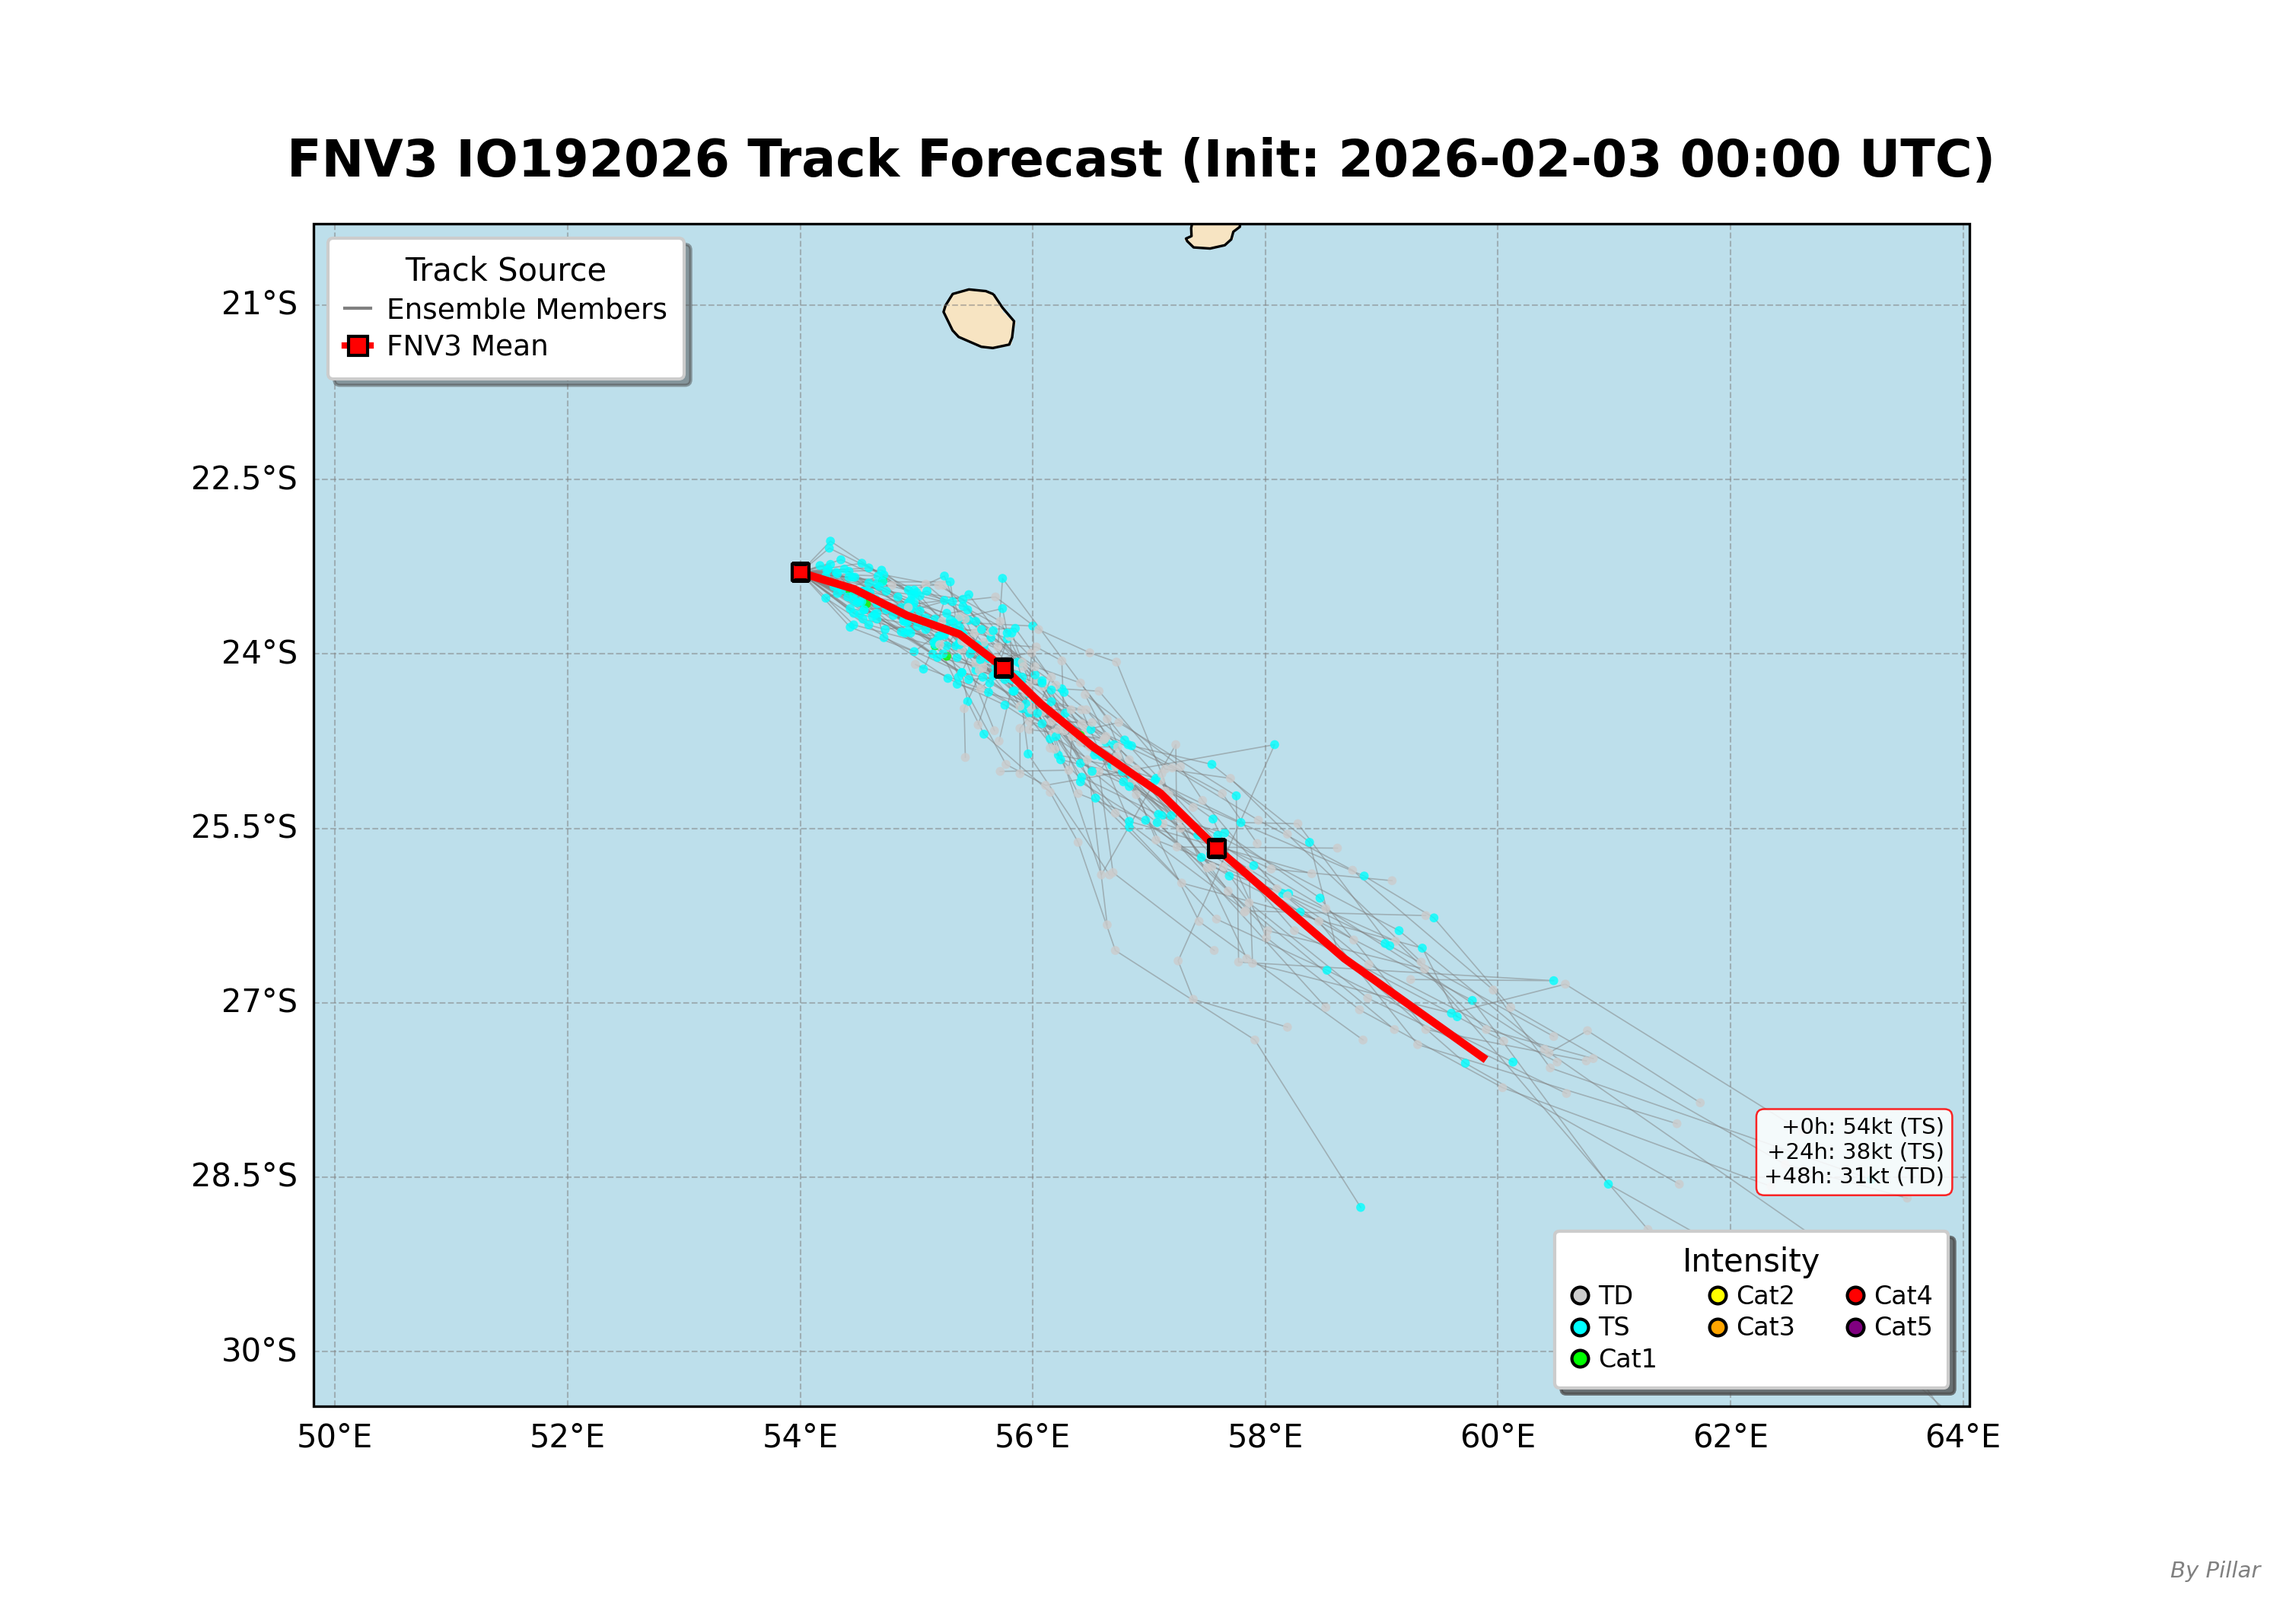
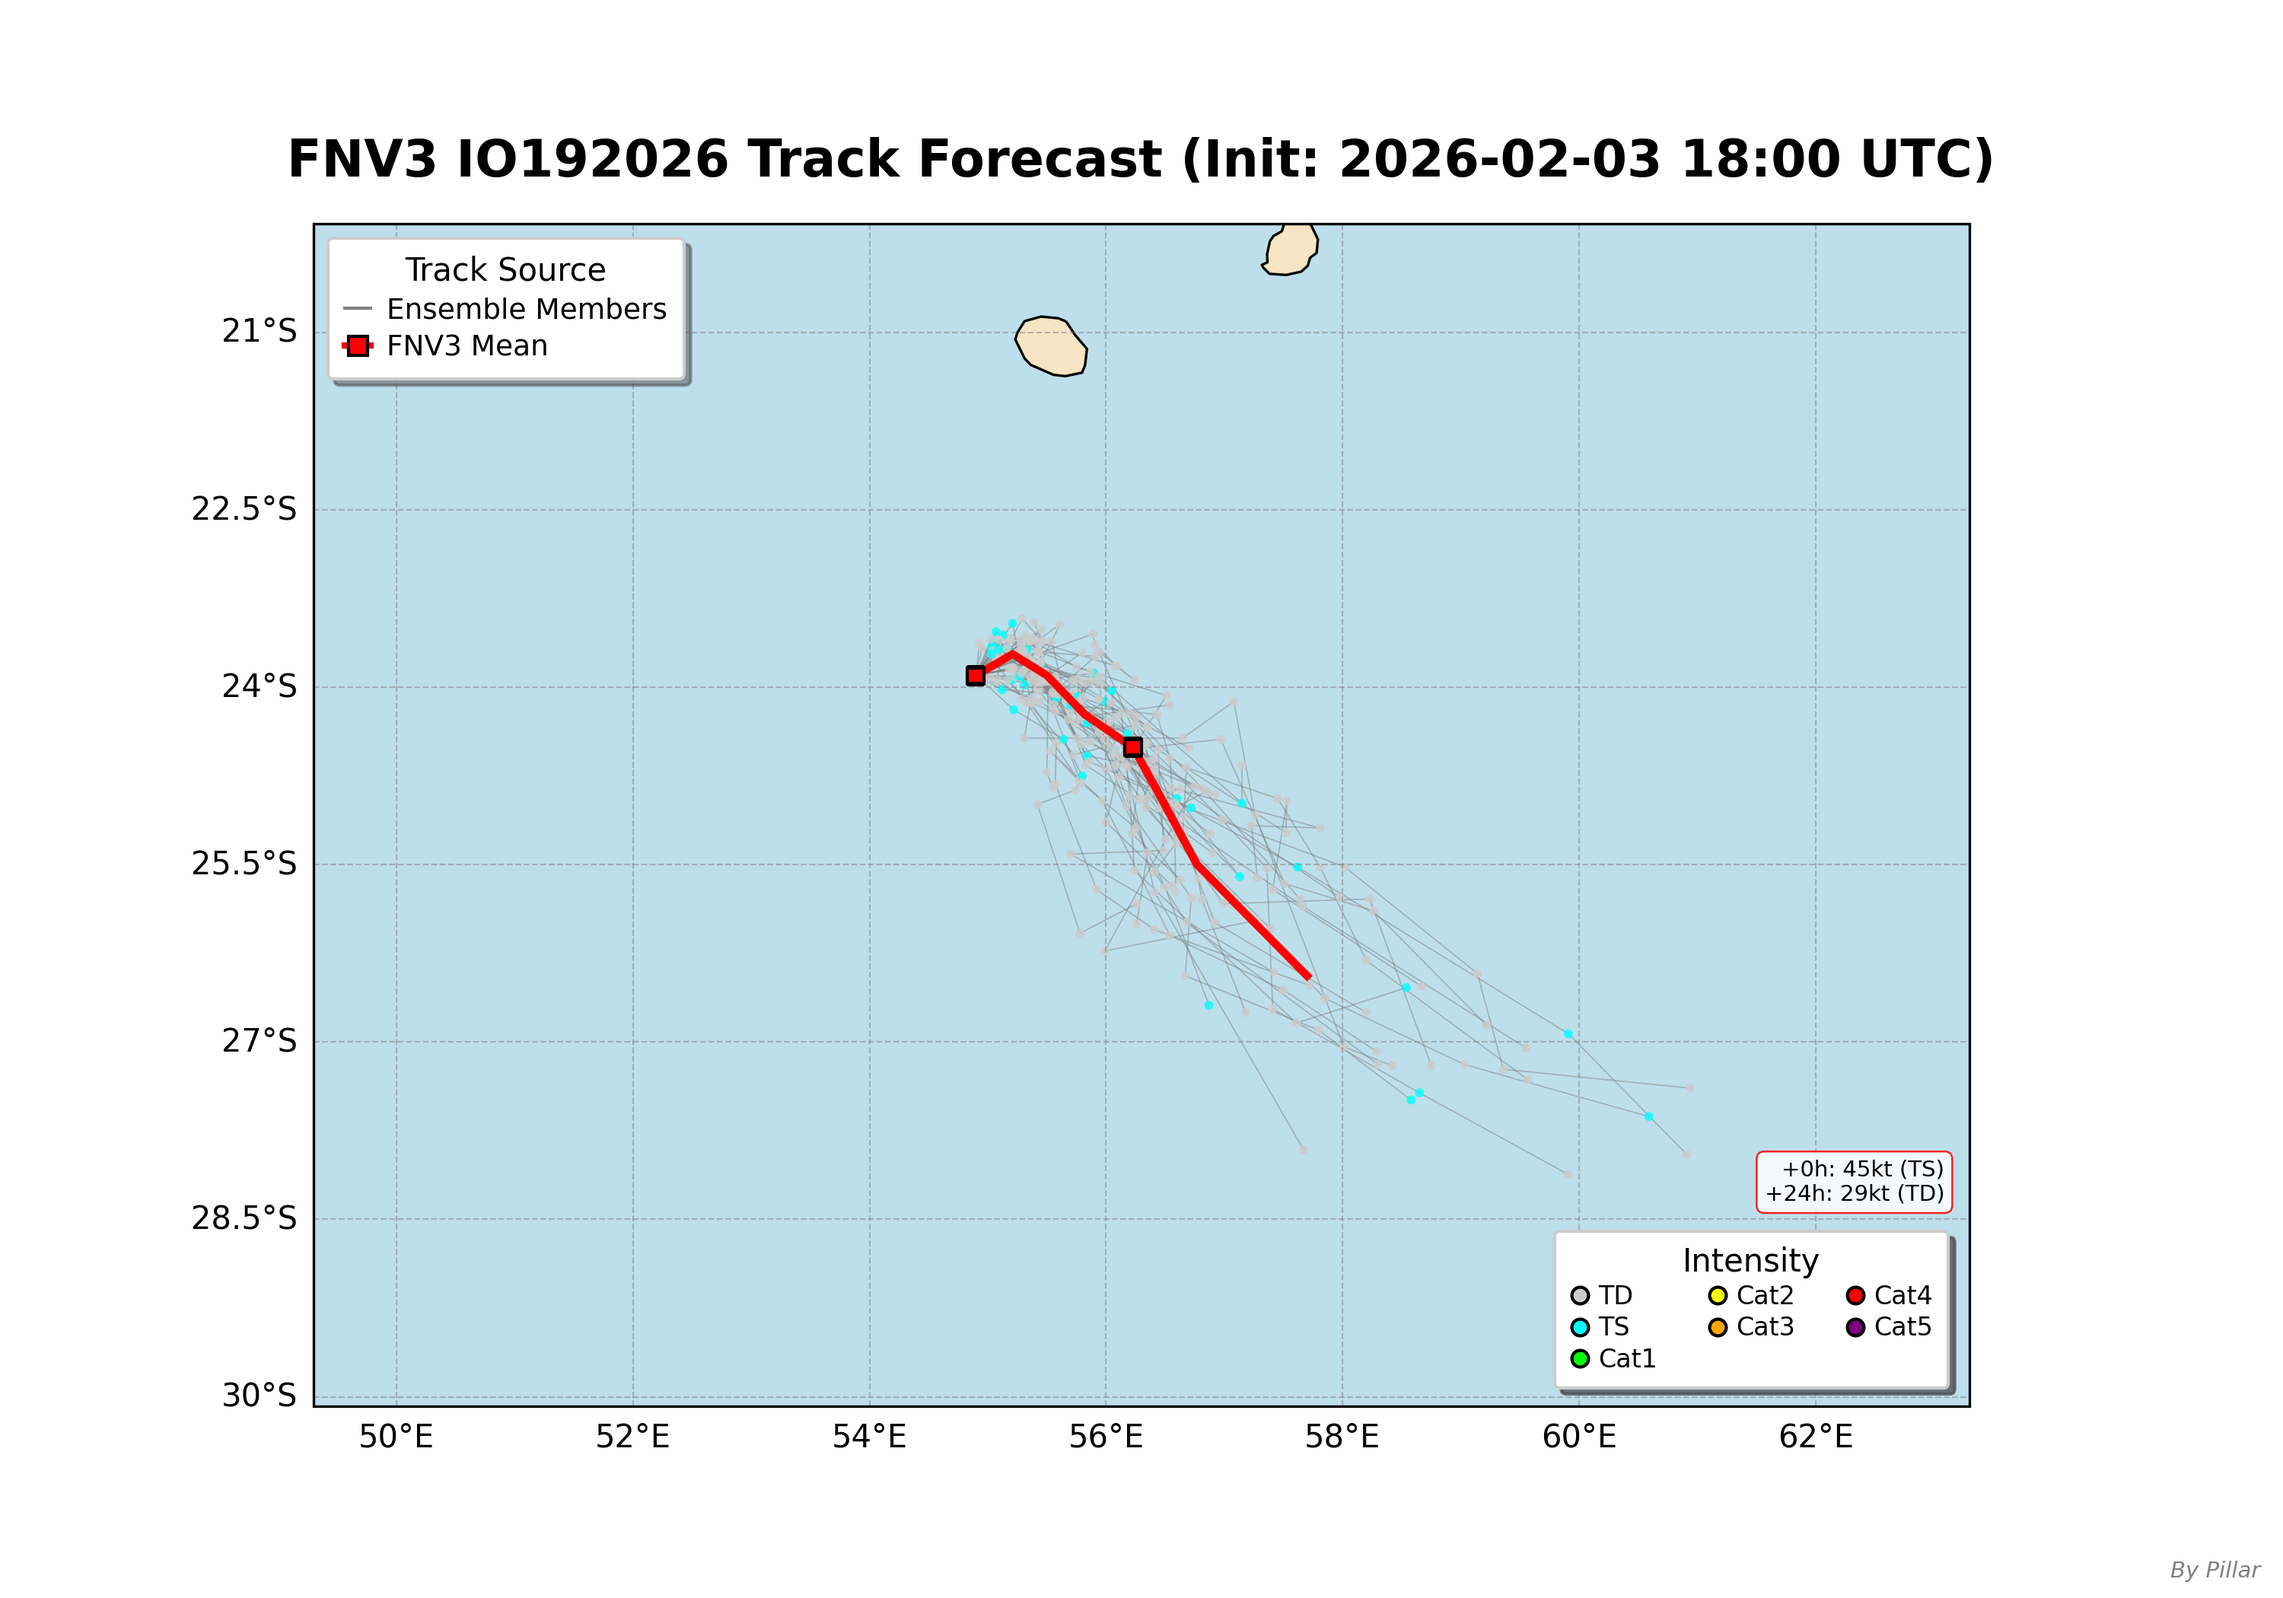
Add files via upload

diff --git a/index.html b/index.html
@@ -3,7 +3,7 @@
 <head>
     <meta charset="UTF-8">
     <meta name="viewport" content="width=device-width, initial-scale=1.0">
-    <title>Pillar's Tropical Cyclone Forecast | IO192026</title>
+    <title>Pillar's Tropical Cyclone Forecast | IO192026 / WP942026</title>
     <style>
         * {
             margin: 0;
@@ -689,7 +689,7 @@
                     <div class="subtitle">Real-time FNV3 Ensemble Forecast System</div>
                 </div>
                 <div class="update-badge">
-                    ⏰ Updated: 2026-02-03 17:58:45
+                    ⏰ Updated: 2026-02-04 10:29:30
                 </div>
             </div>
         </header>
@@ -708,15 +708,15 @@
                 <div class="info-grid">
                     <div class="info-item">
                         <div class="info-label">🛰 Current Time</div>
-                        <div class="info-value">030000 Z</div>
+                        <div class="info-value">031200 Z</div>
                     </div>
                     <div class="info-item">
                         <div class="info-label">📍 Current Position</div>
-                        <div class="info-value">23.5°S, 54.2°E</div>
+                        <div class="info-value">24.0°S, 54.7°E</div>
                     </div>
                     <div class="info-item">
                         <div class="info-label">💨 Maximum Wind</div>
-                        <div class="info-value">55 kt</div>
+                        <div class="info-value">50 kt</div>
                     </div>
                     <div class="info-item">
                         <div class="info-label">🔥 Intensity (Saffir-Simpson)</div>
@@ -727,11 +727,11 @@
                     </div>
                     <div class="info-item mobile-wind-radii" style="grid-column: span 2;">
                         <div class="info-label">🌀 34 kt Wind Radii</div>
-                        <div class="info-value">NE: 080 / SE: 100 / SW: 075 / NW: 070 nm</div>
+                        <div class="info-value">NE: 100 / SE: 110 / SW: 065 / NW: 000 nm</div>
                     </div>
                     <div class="info-item mobile-wind-radii" style="grid-column: span 2;">
                         <div class="info-label">🌀 50 kt Wind Radii</div>
-                        <div class="info-value">NE: 040 / SE: 045 / SW: 040 / NW: 040 nm</div>
+                        <div class="info-value">NE: 050 / SE: 045 / SW: 035 / NW: 000 nm</div>
                     </div>
                 </div>
 
@@ -786,9 +786,9 @@
                         <button class="control-btn" onclick="pauseAnimation('IO192026')">⏸ Pause</button>
                         <button class="control-btn" onclick="resetAnimation('IO192026')">⟲ Reset</button>
                         <div class="progress-bar-container">
-                            <input type="range" id="progress-IO192026" class="progress-slider" min="0" max="12" value="0" 
+                            <input type="range" id="progress-IO192026" class="progress-slider" min="0" max="9" value="0" 
                                    oninput="seekFrame('IO192026', this.value)">
-                            <span id="frame-counter-IO192026" class="frame-counter">1/13</span>
+                            <span id="frame-counter-IO192026" class="frame-counter">1/10</span>
                         </div>
                     </div>
                 </div>
@@ -812,6 +812,123 @@
             <div class="map-container jtwc-forecast-map" style="margin-top: 30px;">
                 <div class="map-title">🌐 JTWC Official Forecast</div>
                 <img src="jtwc_IO192026.gif" alt="JTWC Forecast" class="map-image" onerror="this.parentElement.style.display='none'">
+                <div class="map-description" style="margin-top: 15px; color: #666; font-size: 0.95em; line-height: 1.6;">
+                    <strong>Source:</strong> Joint Typhoon Warning Center (JTWC) - U.S. Navy & Air Force
+                </div>
+            </div>
+        
+
+            <div class="storm-card">
+                <div class="storm-header">
+                    <div class="storm-title">
+                        TWO <span class="alert-badge">LIVE</span>
+                    </div>
+                    <div class="storm-id">WP942026</div>
+                </div>
+
+                <div class="info-grid">
+                    <div class="info-item">
+                        <div class="info-label">🛰 Current Time</div>
+                        <div class="info-value">040000 Z</div>
+                    </div>
+                    <div class="info-item">
+                        <div class="info-label">📍 Current Position</div>
+                        <div class="info-value">8.7°N, 132.7°E</div>
+                    </div>
+                    <div class="info-item">
+                        <div class="info-label">💨 Maximum Wind</div>
+                        <div class="info-value">30 kt</div>
+                    </div>
+                    <div class="info-item">
+                        <div class="info-label">🔥 Intensity (Saffir-Simpson)</div>
+                        <div class="info-value intensity-value">
+                            <span class="intensity-dot" style="background: #CCCCCC;"></span>
+                            <span class="legend-label">TD</span>
+                        </div>
+                    </div>
+                    <div class="info-item mobile-wind-radii" style="grid-column: span 2;">
+                        <div class="info-label">🌀 34 kt Wind Radii</div>
+                        <div class="info-value">NE: 100 / SE: 040 / SW: 000 / NW: 100 nm</div>
+                    </div>
+                </div>
+
+                <!-- Legend -->
+                <div class="legend">
+                    <div class="legend-title">🎨 Intensity Scale (Saffir-Simpson)</div>
+                    <div class="legend-items">
+                        <div class="legend-item">
+                            <div class="legend-color" style="background: #CCCCCC;"></div>
+                            <div class="legend-label">TD (< 34 kt)</div>
+                        </div>
+                        <div class="legend-item">
+                            <div class="legend-color" style="background: #00FFFF;"></div>
+                            <div class="legend-label">TS (34-63 kt)</div>
+                        </div>
+                        <div class="legend-item">
+                            <div class="legend-color" style="background: #00FF00;"></div>
+                            <div class="legend-label">Cat 1 (64-82 kt)</div>
+                        </div>
+                        <div class="legend-item">
+                            <div class="legend-color" style="background: #FFFF00;"></div>
+                            <div class="legend-label">Cat 2 (83-95 kt)</div>
+                        </div>
+                        <div class="legend-item">
+                            <div class="legend-color" style="background: #FFA500;"></div>
+                            <div class="legend-label">Cat 3 (96-112 kt)</div>
+                        </div>
+                        <div class="legend-item">
+                            <div class="legend-color" style="background: #FF0000;"></div>
+                            <div class="legend-label">Cat 4 (113-136 kt)</div>
+                        </div>
+                        <div class="legend-item">
+                            <div class="legend-color" style="background: #800080;"></div>
+                            <div class="legend-label">Cat 5 (≥ 137 kt)</div>
+                        </div>
+                    </div>
+                </div>
+            </div>
+
+            
+            <!-- Animation Player -->
+            <div class="animation-container">
+                <div class="animation-title">🎬 Track Evolution Animation</div>
+                <div class="animation-player">
+                    <img id="animation-frame-WP942026" 
+                         src="animation_frames_WP942026/frame_0000.png" 
+                         alt="Animation" 
+                         class="animation-frame"
+                         data-frames-dir="animation_frames_WP942026">
+                    <div class="player-controls">
+                        <button class="control-btn" onclick="playAnimation('WP942026')">▶ Play</button>
+                        <button class="control-btn" onclick="pauseAnimation('WP942026')">⏸ Pause</button>
+                        <button class="control-btn" onclick="resetAnimation('WP942026')">⟲ Reset</button>
+                        <div class="progress-bar-container">
+                            <input type="range" id="progress-WP942026" class="progress-slider" min="0" max="18" value="0" 
+                                   oninput="seekFrame('WP942026', this.value)">
+                            <span id="frame-counter-WP942026" class="frame-counter">1/19</span>
+                        </div>
+                    </div>
+                </div>
+                <div style="margin-top: 10px; color: #666; font-size: 0.9em;">
+                    <strong>Controls:</strong> Play/Pause the animation or use the slider to manually seek through frames.
+                </div>
+            </div>
+
+            <!-- Map Container -->
+            <div class="map-container">
+                <div class="map-title">📍 FNV3 Track Forecast Map</div>
+                <img src="WP942026_Forecast_Map.png" alt="WP942026 Forecast Map" class="map-image">
+                <div style="margin-top: 15px; color: #666; font-size: 0.95em; line-height: 1.6;">
+                    <strong>Note:</strong> Gray lines represent individual ensemble members (spaghetti plot). 
+                    Red line shows the ensemble mean track with 24-hour position markers. 
+                    Colored dots indicate intensity at 6-hour intervals.
+                </div>
+            </div>
+
+            <!-- JTWC Forecast Map Container -->
+            <div class="map-container jtwc-forecast-map" style="margin-top: 30px;">
+                <div class="map-title">🌐 JTWC Official Forecast</div>
+                <img src="jtwc_WP942026.gif" alt="JTWC Forecast" class="map-image" onerror="this.parentElement.style.display='none'">
                 <div class="map-description" style="margin-top: 15px; color: #666; font-size: 0.95em; line-height: 1.6;">
                     <strong>Source:</strong> Joint Typhoon Warning Center (JTWC) - U.S. Navy & Air Force
                 </div>
